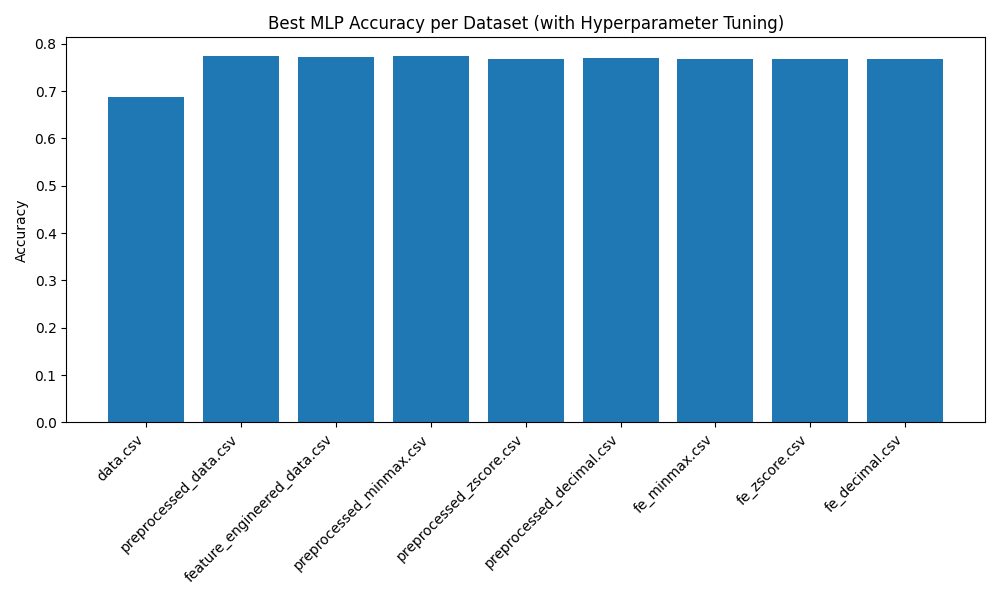
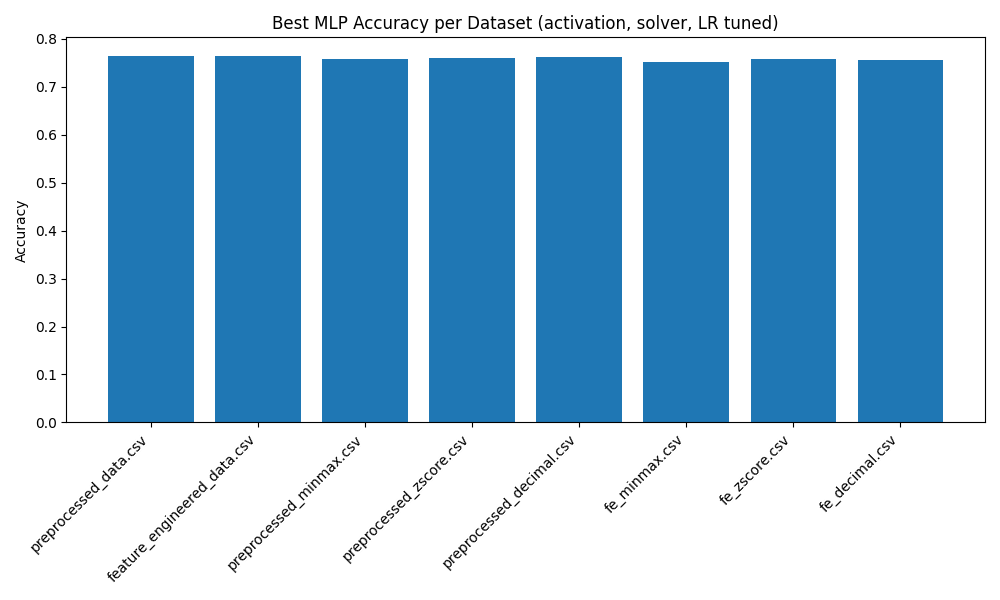
Added SVM and MLP

diff --git a/StudentsAcademicPerformance/Training_80/SVM.py b/StudentsAcademicPerformance/Training_80/SVM.py
@@ -5,6 +5,7 @@ from itertools import product
 from sklearn.model_selection import train_test_split
 from sklearn.svm import SVC
 from sklearn.metrics import accuracy_score
+from sklearn.preprocessing import LabelEncoder
 
 file_paths = [
     "../Original_Dataset/data.csv",
@@ -21,90 +22,123 @@ file_paths = [
 def detect_delimiter(filepath):
     with open(filepath, 'r') as file:
         first_line = file.readline()
-        if first_line.count(';') > first_line.count(','):
-            return ';'
-        else:
-            return ','
+        return ';' if first_line.count(';') > first_line.count(',') else ','
 
+# Load datasets
 datasets = {}
 for path in file_paths:
     try:
         delimiter = detect_delimiter(path)
         df = pd.read_csv(path, delimiter=delimiter)
-        datasets[path.split('/')[-1]] = df
+        datasets[os.path.basename(path)] = df
     except Exception as e:
-        datasets[path.split('/')[-1]] = f"Error loading: {str(e)}"
+        datasets[os.path.basename(path)] = f"Error loading: {str(e)}"
 
+# Hyperparameters
 C_values = [0.1, 1, 10]
-kernels = ['linear', 'rbf']
+kernels = ['linear', 'rbf', 'poly', 'sigmoid']
 gammas = ['scale', 'auto']
+degree_values = [0, 2, 3, 4]
 
 results = []
 
 for name, df in datasets.items():
+    print(f"\n🔍 Processing: {name}")
     if isinstance(df, str):
+        print(f"❌ Failed to load: {df}")
         continue
 
     try:
         X = df.iloc[:, :-1]
         y = df.iloc[:, -1]
 
+        # Encode categorical features
+        for col in X.columns:
+            if X[col].dtype == 'object':
+                X[col] = LabelEncoder().fit_transform(X[col].astype(str))
+        if y.dtype == 'object':
+            y = LabelEncoder().fit_transform(y.astype(str))
+
+        # Drop NaNs
         mask = X.notnull().all(axis=1)
         X = X[mask]
         y = y[mask.values]
 
         best_acc = 0
-        best_params = {}
+        best_params = None
 
         for c, k, g in product(C_values, kernels, gammas):
-            X_train, X_test, y_train, y_test = train_test_split(X, y, test_size=0.2, random_state=42)
+            degrees = degree_values if k == 'poly' else [None]
+            for d in degrees:
+                print(f"→ Trying C={c}, kernel={k}, gamma={g}, degree={d}")
+                model = SVC(C=c, kernel=k, gamma=g, degree=d if d is not None else 3)
+                try:
+                    X_train, X_test, y_train, y_test = train_test_split(X, y, test_size=0.2, random_state=42)
+                    model.fit(X_train, y_train)
+                    acc = accuracy_score(y_test, model.predict(X_test))
 
-            model = SVC(C=c, kernel=k, gamma=g)
-            model.fit(X_train, y_train)
-            acc = accuracy_score(y_test, model.predict(X_test))
+                    if acc > best_acc:
+                        best_acc = acc
+                        best_params = {
+                            "C": c,
+                            "Kernel": k,
+                            "Gamma": g,
+                            "Degree": d if d is not None else "-"
+                        }
+                except Exception as e:
+                    print(f"⚠ Model failed: {e}")
 
-            if acc > best_acc:
-                best_acc = acc
-                best_params = {
-                    "C": c,
-                    "Kernel": k,
-                    "Gamma": g
-                }
-
-        results.append({
-            "Dataset": name,
-            "Best Accuracy": best_acc,
-            "C": best_params["C"],
-            "Kernel": best_params["Kernel"],
-            "Gamma": best_params["Gamma"]
-        })
+        if best_params:
+            results.append({
+                "Dataset": name,
+                "Best Accuracy": best_acc,
+                "C": best_params["C"],
+                "Kernel": best_params["Kernel"],
+                "Gamma": best_params["Gamma"],
+                "Degree": best_params["Degree"]
+            })
+        else:
+            results.append({
+                "Dataset": name,
+                "Best Accuracy": "Error",
+                "C": "-",
+                "Kernel": "-",
+                "Gamma": "-",
+                "Degree": "-"
+            })
 
     except Exception as e:
+        print(f"❌ Exception processing {name}: {e}")
         results.append({
             "Dataset": name,
             "Best Accuracy": "Error",
             "C": "-",
             "Kernel": "-",
-            "Gamma": "-"
+            "Gamma": "-",
+            "Degree": "-"
         })
 
+# Save and display results
 results_df = pd.DataFrame(results)
+print("\n✅ Final Results:")
+print(results_df)
 
 output_dir = "output_SVM"
 os.makedirs(output_dir, exist_ok=True)
 results_path = os.path.join(output_dir, "svm_results.csv")
 results_df.to_csv(results_path, index=False)
 
+# Plot
 plot_data = results_df[results_df["Best Accuracy"] != "Error"]
 plt.figure(figsize=(10, 6))
 plt.bar(plot_data["Dataset"], plot_data["Best Accuracy"])
 plt.xticks(rotation=45, ha='right')
 plt.ylabel("Accuracy")
-plt.title("Best SVM Accuracy per Dataset (with Hyperparameter Tuning)")
+plt.title("Best SVM Accuracy per Dataset (All Kernels + Degrees for Poly)")
 plt.tight_layout()
 plot_path = os.path.join(output_dir, "svm_accuracy_plot.png")
 plt.savefig(plot_path)
 plt.show()
 
-print(f"Results saved to: {results_path}")
+print(f" Results saved to: {results_path}")
 print(f"Plot saved to: {plot_path}")

diff --git a/StudentsAcademicPerformance/Training_80/MLP.py b/StudentsAcademicPerformance/Training_80/MLP.py
@@ -22,19 +22,17 @@ datasets = {}
 for path in file_paths:
     try:
         filename = path.split('/')[-1]
-
-        if filename == "data.csv":
-            df = pd.read_csv(path, delimiter=';')
-        else:
-            df = pd.read_csv(path, delimiter=',')
-
+        delimiter = ';' if filename == "data.csv" else ','
+        df = pd.read_csv(path, delimiter=delimiter)
         datasets[filename] = df
     except Exception as e:
         datasets[filename] = f"Error loading: {str(e)}"
 
-hidden_layer_sizes = [(50,), (100,), (100, 50)]
-learning_rates = [0.001, 0.01]
-activations = ['relu', 'tanh', 'logistic']
+# Fixed hidden layer size and updated hyperparameters
+hidden_layer_sizes = [(64,)]
+learning_rates = [0.001, 0.005]
+activations = ['relu', 'tanh', 'logistic', 'identity']
+solvers = ['adam', 'sgd']
 
 results = []
 
@@ -53,13 +51,14 @@ for name, df in datasets.items():
         best_acc = 0
         best_params = {}
 
-        for hls, lr, act in product(hidden_layer_sizes, learning_rates, activations):
+        for hls, lr, act, solver in product(hidden_layer_sizes, learning_rates, activations, solvers):
             X_train, X_test, y_train, y_test = train_test_split(X, y, test_size=0.2, random_state=42)
 
             model = MLPClassifier(
                 hidden_layer_sizes=hls,
                 learning_rate_init=lr,
                 activation=act,
+                solver=solver,
                 max_iter=500,
                 random_state=42
             )
@@ -72,7 +71,8 @@ for name, df in datasets.items():
                 best_params = {
                     "Hidden Layers": hls,
                     "Learning Rate": lr,
-                    "Activation": act
+                    "Activation": act,
+                    "Solver": solver
                 }
 
         results.append({
@@ -80,7 +80,8 @@ for name, df in datasets.items():
             "Best Accuracy": best_acc,
             "Hidden Layers": best_params["Hidden Layers"],
             "Learning Rate": best_params["Learning Rate"],
-            "Activation": best_params["Activation"]
+            "Activation": best_params["Activation"],
+            "Solver": best_params["Solver"]
         })
 
     except Exception as e:
@@ -89,23 +90,25 @@ for name, df in datasets.items():
             "Best Accuracy": "Error",
             "Hidden Layers": "-",
             "Learning Rate": "-",
-            "Activation": "-"
+            "Activation": "-",
+            "Solver": "-"
         })
 
+# Save results
 results_df = pd.DataFrame(results)
-
 output_dir = "output_MLP"
 os.makedirs(output_dir, exist_ok=True)
 
 results_path = os.path.join(output_dir, "mlp_results.csv")
 results_df.to_csv(results_path, index=False)
 
+# Plot results
 plot_data = results_df[results_df["Best Accuracy"] != "Error"]
 plt.figure(figsize=(10, 6))
 plt.bar(plot_data["Dataset"], plot_data["Best Accuracy"])
 plt.xticks(rotation=45, ha='right')
 plt.ylabel("Accuracy")
-plt.title("Best MLP Accuracy per Dataset (with Hyperparameter Tuning)")
+plt.title("Best MLP Accuracy per Dataset (activation, solver, LR tuned)")
 plt.tight_layout()
 plot_path = os.path.join(output_dir, "mlp_accuracy_plot.png")
 plt.savefig(plot_path)
